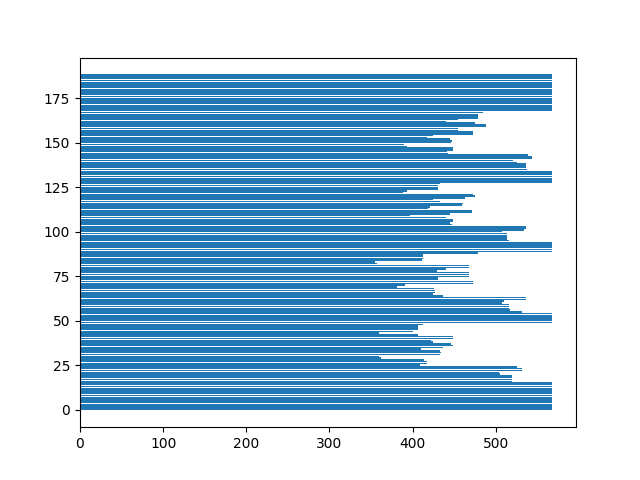
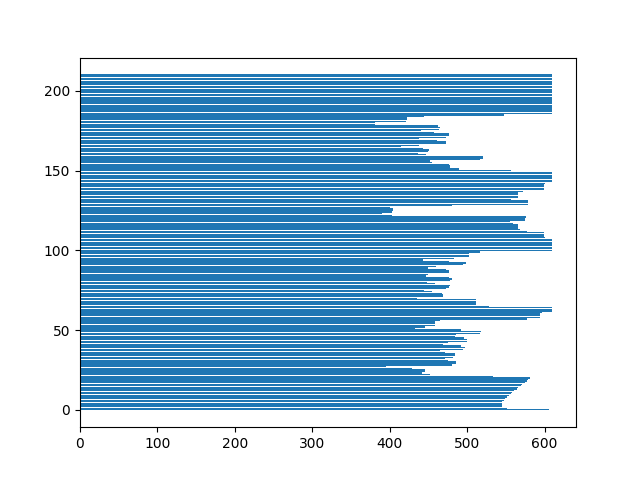
データセット圧縮

diff --git a/3dprint_window_projection.py b/3dprint_window_projection.py
@@ -112,6 +112,12 @@ def Projection_H(img, height, width):
                 total_count += 1
         array_H[i] = total_count
  
+ 
+    fig = plt.figure()
+    ax = fig.add_subplot(1, 1, 1)
+    x_axis = np.arange(height)
+    ax.barh(x_axis, array_H)
+    fig.savefig("hist_H2.png")
     return array_H
  
 #横方向のProjection profileを得る
@@ -171,7 +177,7 @@ def Detect_WidthPosition(W_THRESH, width, array_V):
  
  
 def camera(cycle,count):
-    cap = cv2.VideoCapture(2)
+    cap = cv2.VideoCapture(0)
     read_fps = cap.get(cv2.CAP_PROP_FPS)
     print(read_fps)
     time_counter = 0
@@ -180,7 +186,7 @@ def camera(cycle,count):
         #フレームが取得できない場合は画面を閉じる
         if not ret:
             cv2.destroyAllWindows()
-        time_counter += 300
+        time_counter += 100
         cv2.imshow("frame",frame)
         if count == 0:
             b_text = []
@@ -190,7 +196,7 @@ def camera(cycle,count):
             time_counter = 0
             b_text , b_kersol = match_text(frame,b_text,b_kersol)
             
-            #count+=1
+            count = 1
         #qキーが入力されたら画面を閉じる
         if cv2.waitKey(1) & 0xFF == ord('q'):
             cap.release()
@@ -220,6 +226,8 @@ def match_text(frame,before_text,before_kersol):
     img_mask = cv2.medianBlur(img_mask,3)
     #膨張化
     img_mask = cv2.dilate(img_mask,kernel)
+    plt.imshow(img_mask)
+    plt.show()
     #高さ、幅を保持
     height,width = img_mask.shape
     #縦方向のProjection Profileを保持
@@ -227,6 +235,7 @@ def match_text(frame,before_text,before_kersol):
     #縦方向の最大値を保持
     H_THRESH = max(array_H)
     char_List1 = Detect_HeightPosition(H_THRESH,height,array_H)
+    print(char_List1)
     head = 0
     index = []
     out_modify = "" #修正したテキスト
@@ -543,4 +552,5 @@ if __name__ == "__main__":
     label_temp = temp['y']
     before_text = "Main   →"
     kersol = ">Main"
-    match_text(img,before_text,kersol)
+    #match_text(img,before_text,kersol)
+    camera(300,0)
